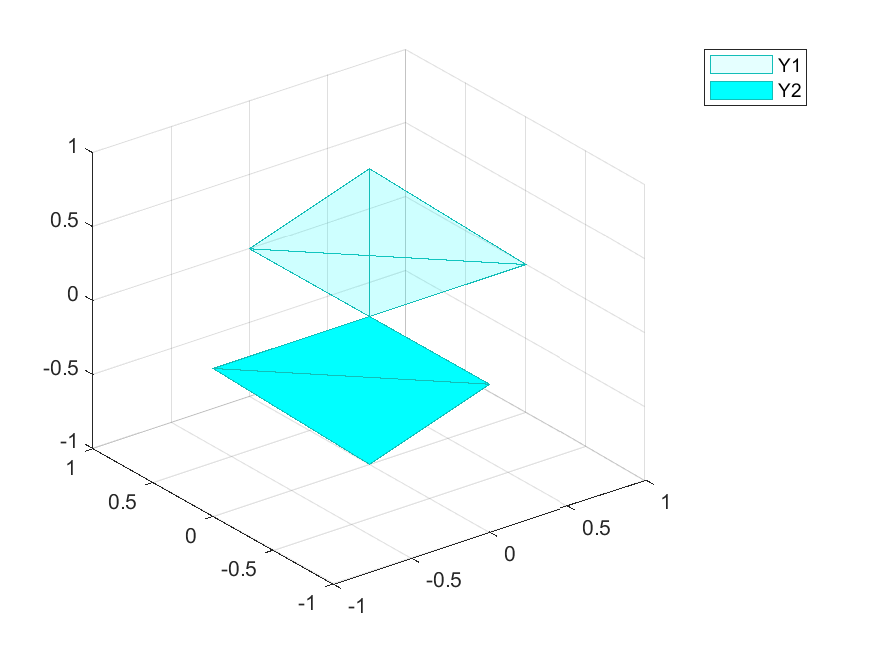
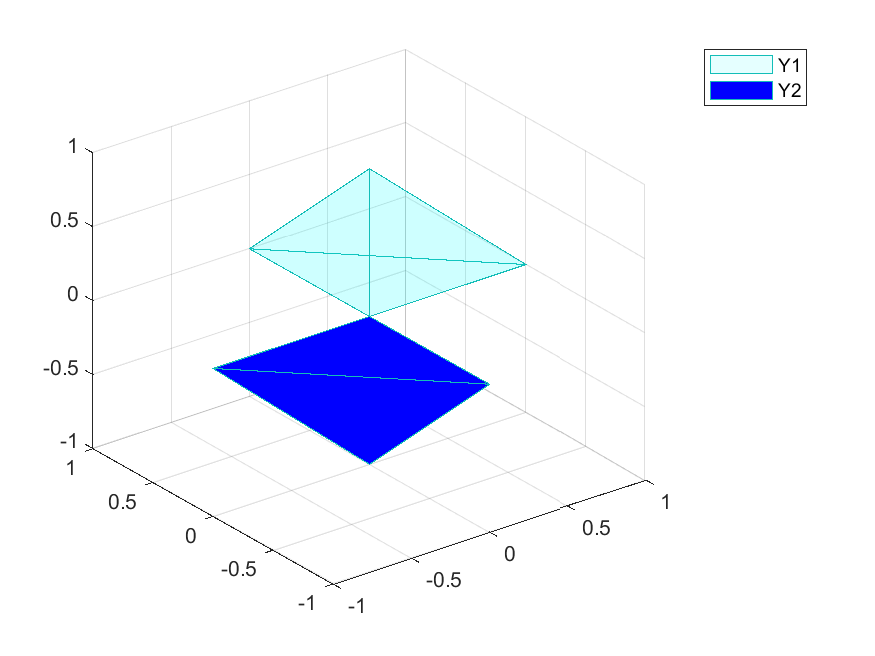
added ability to plot all the Simplicies on 1 plot to show the progression (Might be usefull)

Changed region(s): [[0.2469, 0.4878, 0.5554, 0.7012], [0.8023, 0.122, 0.8949, 0.1524]]

diff --git a/simplexPlot.m b/simplexPlot.m
@@ -12,11 +12,29 @@ classdef simplexPlot
 
             s1 = trimesh(k1,X(1,:),X(2,:),X(3,:),'FaceColor','cyan','DisplayName',strcat('Y',string(iter)));
             hold on;
-            s2 = trimesh(k2,Y(1,:),Y(2,:),Y(3,:),'FaceColor','cyan','DisplayName',strcat('Y',string(iter+1)));
+            s2 = trimesh(k2,Y(1,:),Y(2,:),Y(3,:),'FaceColor','blue','DisplayName',strcat('Y',string(iter+1)));
             alpha(s1,0.1);
             legend show;
             saveas(gcf,strcat(outputFile,'simplex',string(iter), '-',string(iter+1),'.png'));
             hold off;
+        end
+        
+        function j = plotTotal(T,outputFile)
+            
+            for i = 1:length(T)
+                X = T{i}
+                [k1,av1] = convhull(X(1,:),X(2,:),X(3,:));
+                s1 = trimesh(k1,X(1,:),X(2,:),X(3,:),'FaceColor',[1,i/length(T),0],'DisplayName',strcat('Y',string(i)));
+                alpha(s1,0.1);
+                if i ==1
+                    hold on;
+                end
+            end
+                
+            legend show;
+            saveas(gcf,strcat(outputFile,'simplexCombined','.png'));
+            hold off;
+            
         end
     end
 end

diff --git a/convergencePlot.m b/convergencePlot.m
@@ -17,9 +17,9 @@ classdef convergencePlot
             plot(X(:,1),X(:,2),'-o','MarkerSize',10);
             hold on
             plot(Y(:,1),Y(:,2),'-x','MarkerSize',10);
-            hold on
+            
             plot(Z(:,1),Z(:,2),'-d','MarkerSize',10);
-            hold on
+            
             
             %add labels%
             title('Convergence plot');
@@ -34,6 +34,7 @@ classdef convergencePlot
             
             %save the plot png to folder%
             saveas(gcf,strcat(outputFile,'ConvergencePlot.png'));
+            hold off;
         end
     end
 end

diff --git a/test.m b/test.m
@@ -8,10 +8,13 @@ X=[0,1,0,0;
 Y=[0,-1,0,0;
     0,0,-1,0;
    0,0,0,-1];
+Z = [0,-0.5,0,0;
+    0,0,-.5,0;
+   0,0,0,-.5];
 
 simplexPlot.plot(X,Y,1,'C:\Users\User\Desktop\Math462\GroupProject\Cosc419KGroupProject\testSimplexPlotFolder\');
-
-
+X = {X,Y,Z}
+simplexPlot.plotTotal(X,'C:\Users\User\Desktop\Math462\GroupProject\Cosc419KGroupProject\testSimplexPlotFolder\');
 %testing convergence plot%
 X =[0,100; 1,90;2,80;3,70];
 Y =[0,110; 1,100;2,90];
